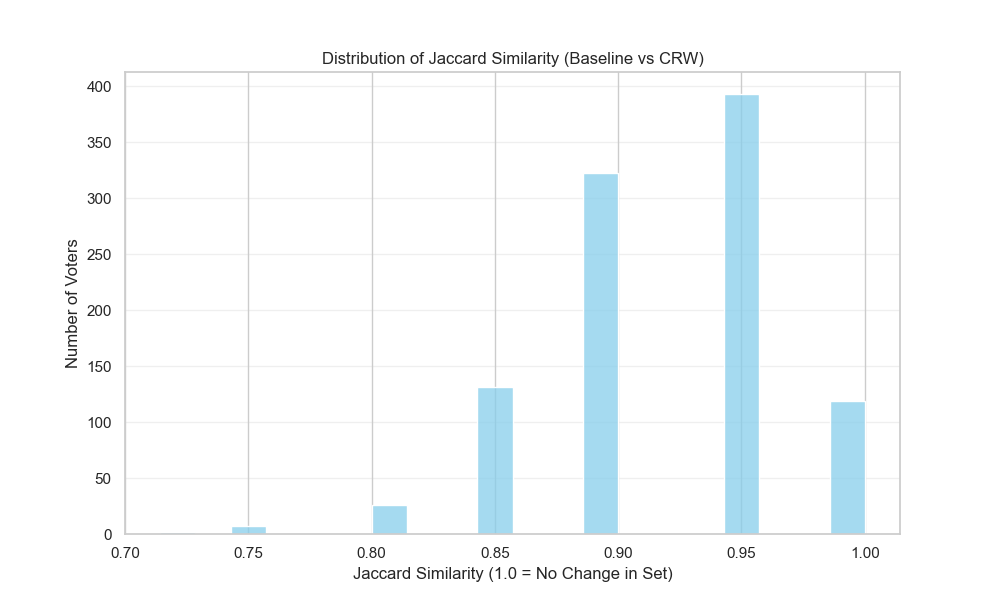
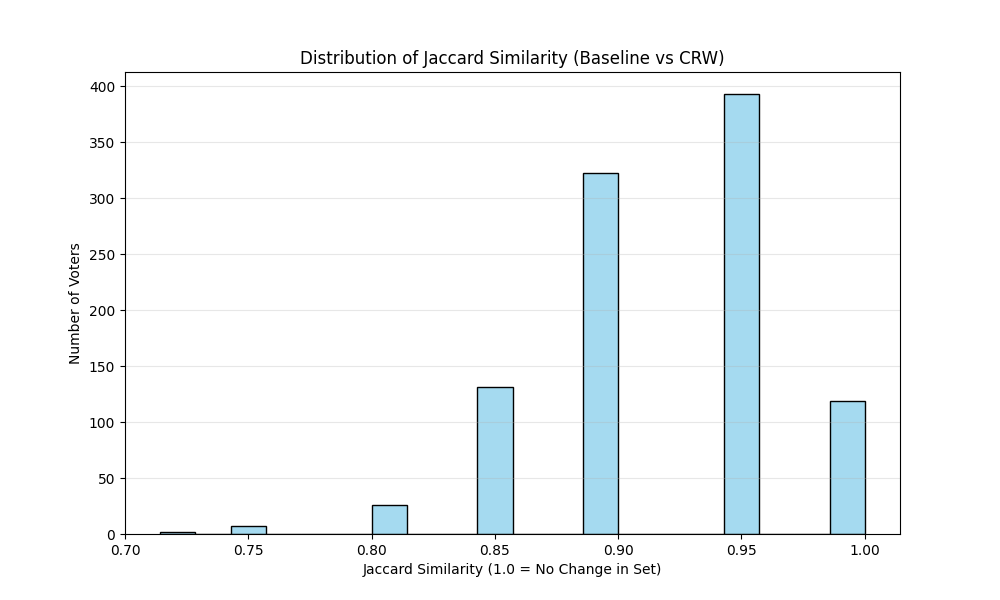
fixed minor bug with save_results=False

diff --git a/scripts/test_result_manager.py b/scripts/test_result_manager.py
@@ -1,0 +1,65 @@
+import pandas as pd
+from pathlib import Path
+from types import SimpleNamespace
+import shutil
+from vqs.result_management import ResultManager
+
+
+def test_result_manager():
+    # 1. Setup a dummy environment
+    test_dir = Path("test_cache_dir")
+    test_dir.mkdir(exist_ok=True)
+
+    # Mock Config
+    config = SimpleNamespace(
+        dist="SBERT",
+        data_year=2024,
+        alpha=1.0,
+        results_file_type="csv",
+        save_results=True,
+    )
+
+    params_list = ["dist", "data_year", "alpha"]
+
+    print("--- Initializing ResultManager ---")
+    rm = ResultManager(config, test_dir, params_list, prefix="test")
+    initial_hash = rm.hash
+    print(f"Generated Hash: {initial_hash}")
+
+    # 2. Test Saving
+    df_original = pd.DataFrame({"A": [1, 2], "B": [3, 4]})
+    save_path = rm.save(df_original, readable=True)
+    print(f"Saved to: {save_path.name}")
+
+    # 3. Test Existence (The "Skip" Logic)
+    print("\n--- Testing Existence Check ---")
+    exists_path = rm.exists()
+    if exists_path and initial_hash in exists_path.name:
+        print("✅ SUCCESS: ResultManager recognized existing file by hash.")
+    else:
+        print("❌ FAILURE: ResultManager failed to find the file.")
+
+    # 4. Test Loading
+    print("\n--- Testing Loading ---")
+    df_loaded = rm.load()
+    if df_loaded is not None and df_loaded.equals(df_original):
+        print("✅ SUCCESS: Data integrity maintained.")
+    else:
+        print("❌ FAILURE: Data mismatch or load failed.")
+
+    # 5. Test Parameter Sensitivity (Change a param, hash should change)
+    print("\n--- Testing Parameter Sensitivity ---")
+    config.alpha = 0.5
+    rm_new = ResultManager(config, test_dir, params_list, prefix="test")
+    if rm_new.hash != initial_hash:
+        print(f"✅ SUCCESS: Hash changed to {rm_new.hash} when alpha changed.")
+    else:
+        print("❌ FAILURE: Hash did not change despite parameter update.")
+
+    # 6. Cleanup (Optional)
+    # shutil.rmtree(test_dir)
+    print("\nTest Complete!")
+
+
+if __name__ == "__main__":
+    test_result_manager()

diff --git a/vqs/clone_robust_weighting.py b/vqs/clone_robust_weighting.py
@@ -28,6 +28,10 @@ class CloneRobustReweighter:
             if config.E5_instruction is not None
             else []
         )
+
+        print(
+            f"Initialized CloneRobustReweighter with alpha={self.alpha} and important parameters: {self.important_params_list}"
+        )
         # Add more if needed for hashing
 
     def _class_uniform_weighting_fn(self, adj: np.ndarray) -> np.ndarray:

diff --git a/vqs/clone_robust_analysis.py b/vqs/clone_robust_analysis.py
@@ -66,7 +66,8 @@ def save_reweighting_results(
 
     file_path = rm.save(df=df, readable=True)
 
-    _plot_weight_distribution(df, config, config.crw_paper_choice, file_path)  # type: ignore
+    if file_path is not None:
+        _plot_weight_distribution(df, config, config.crw_paper_choice, file_path)
 
     return df
 